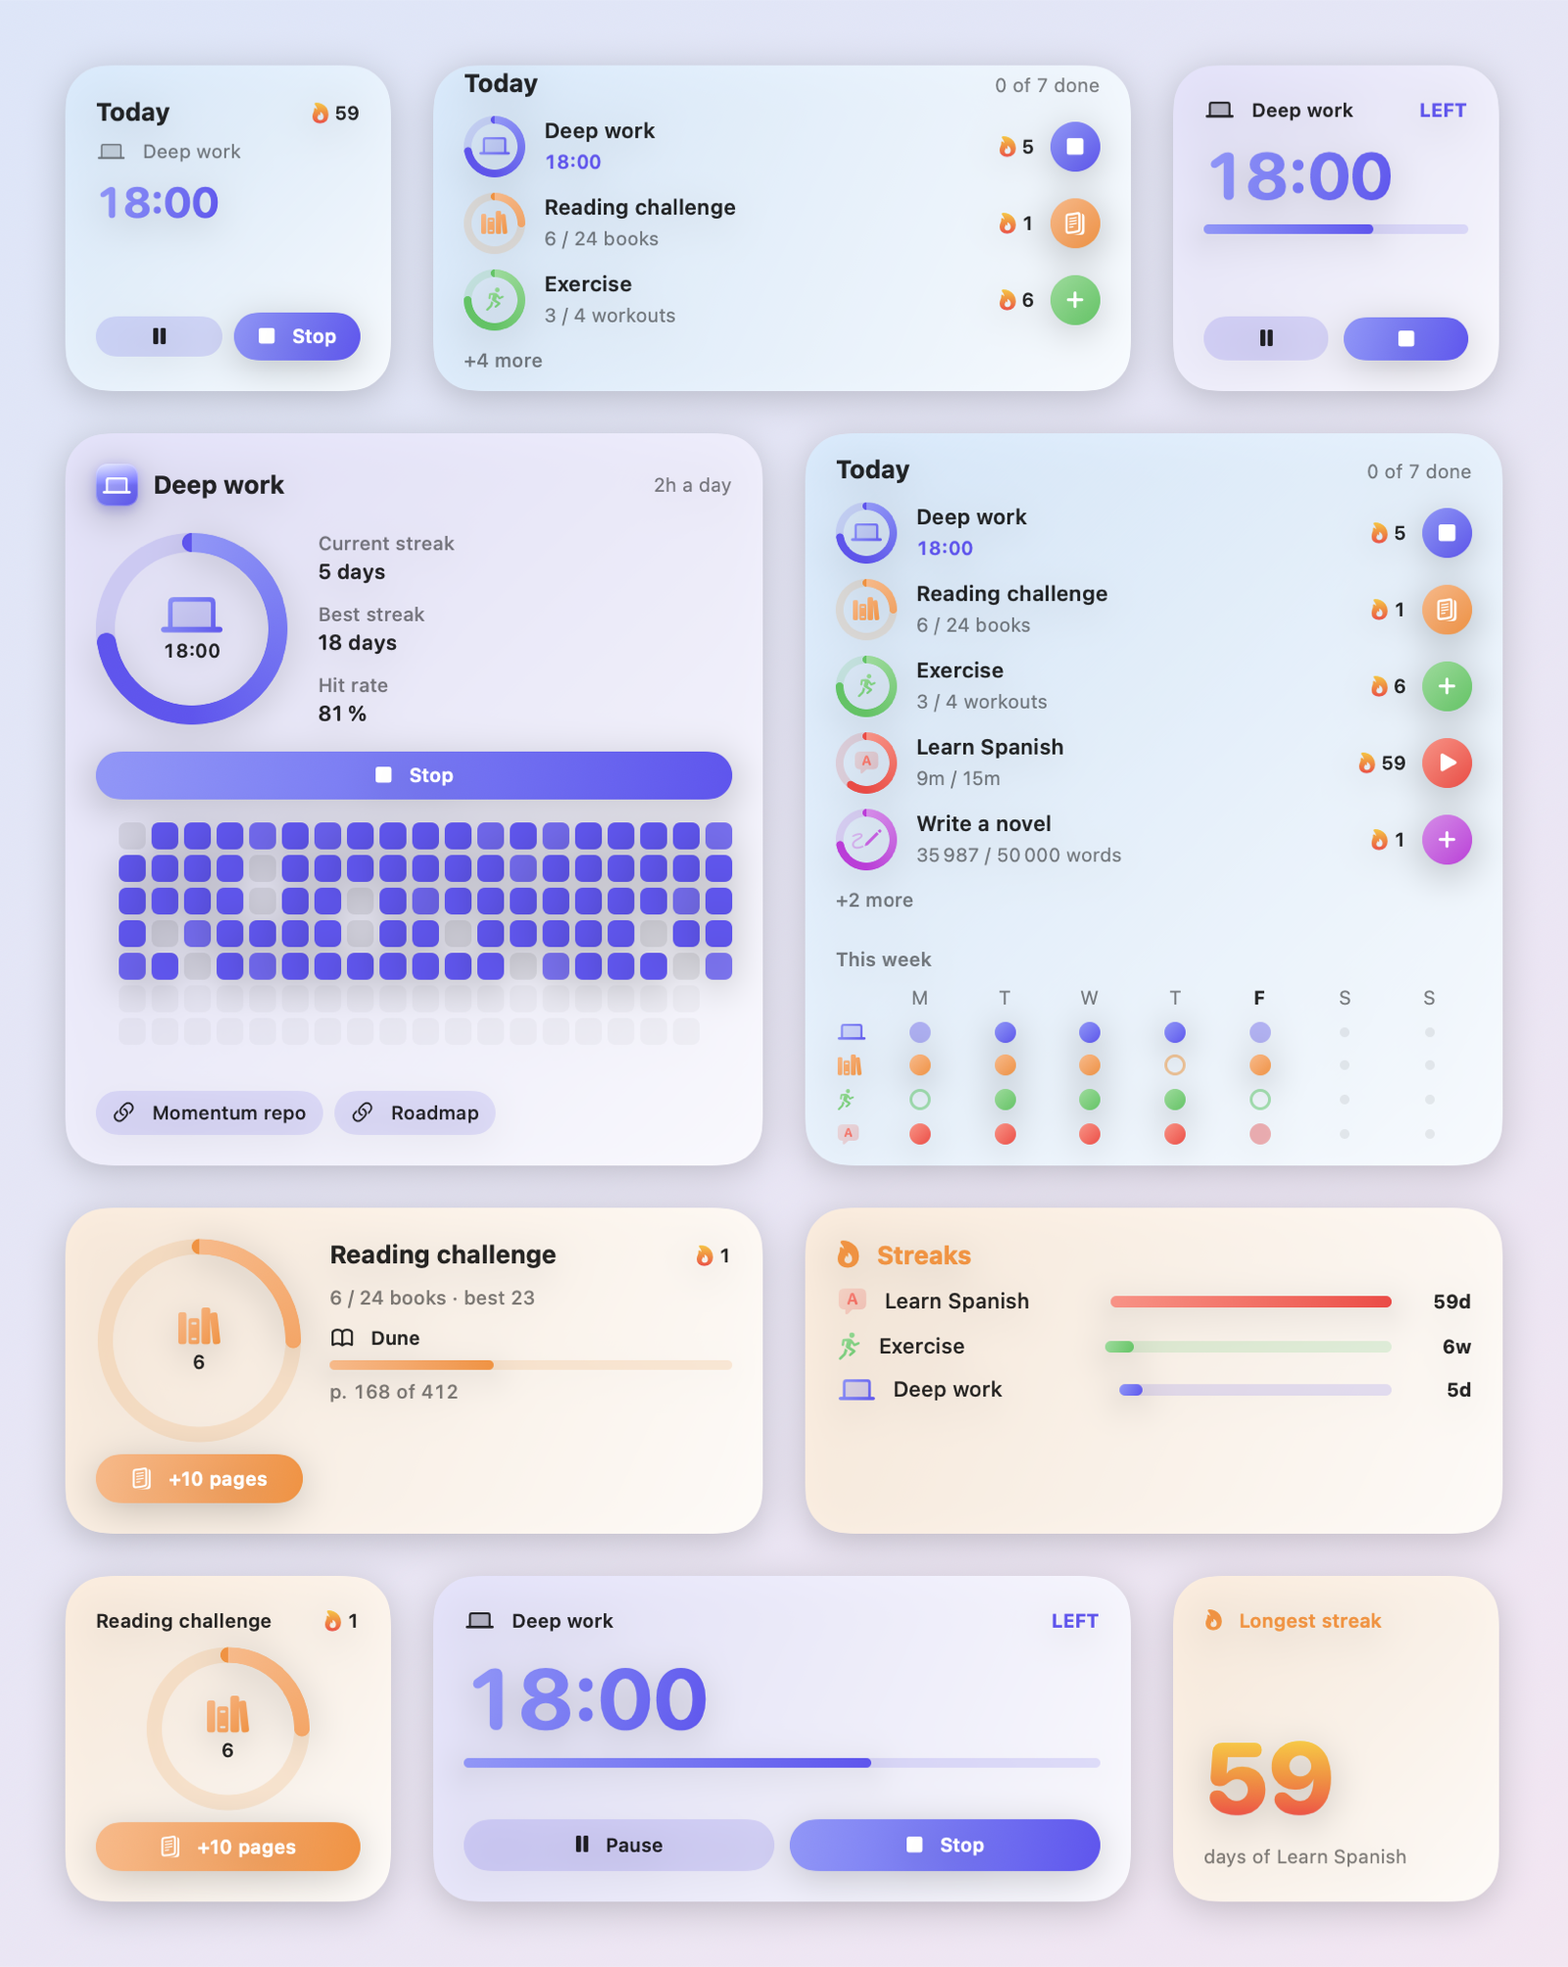
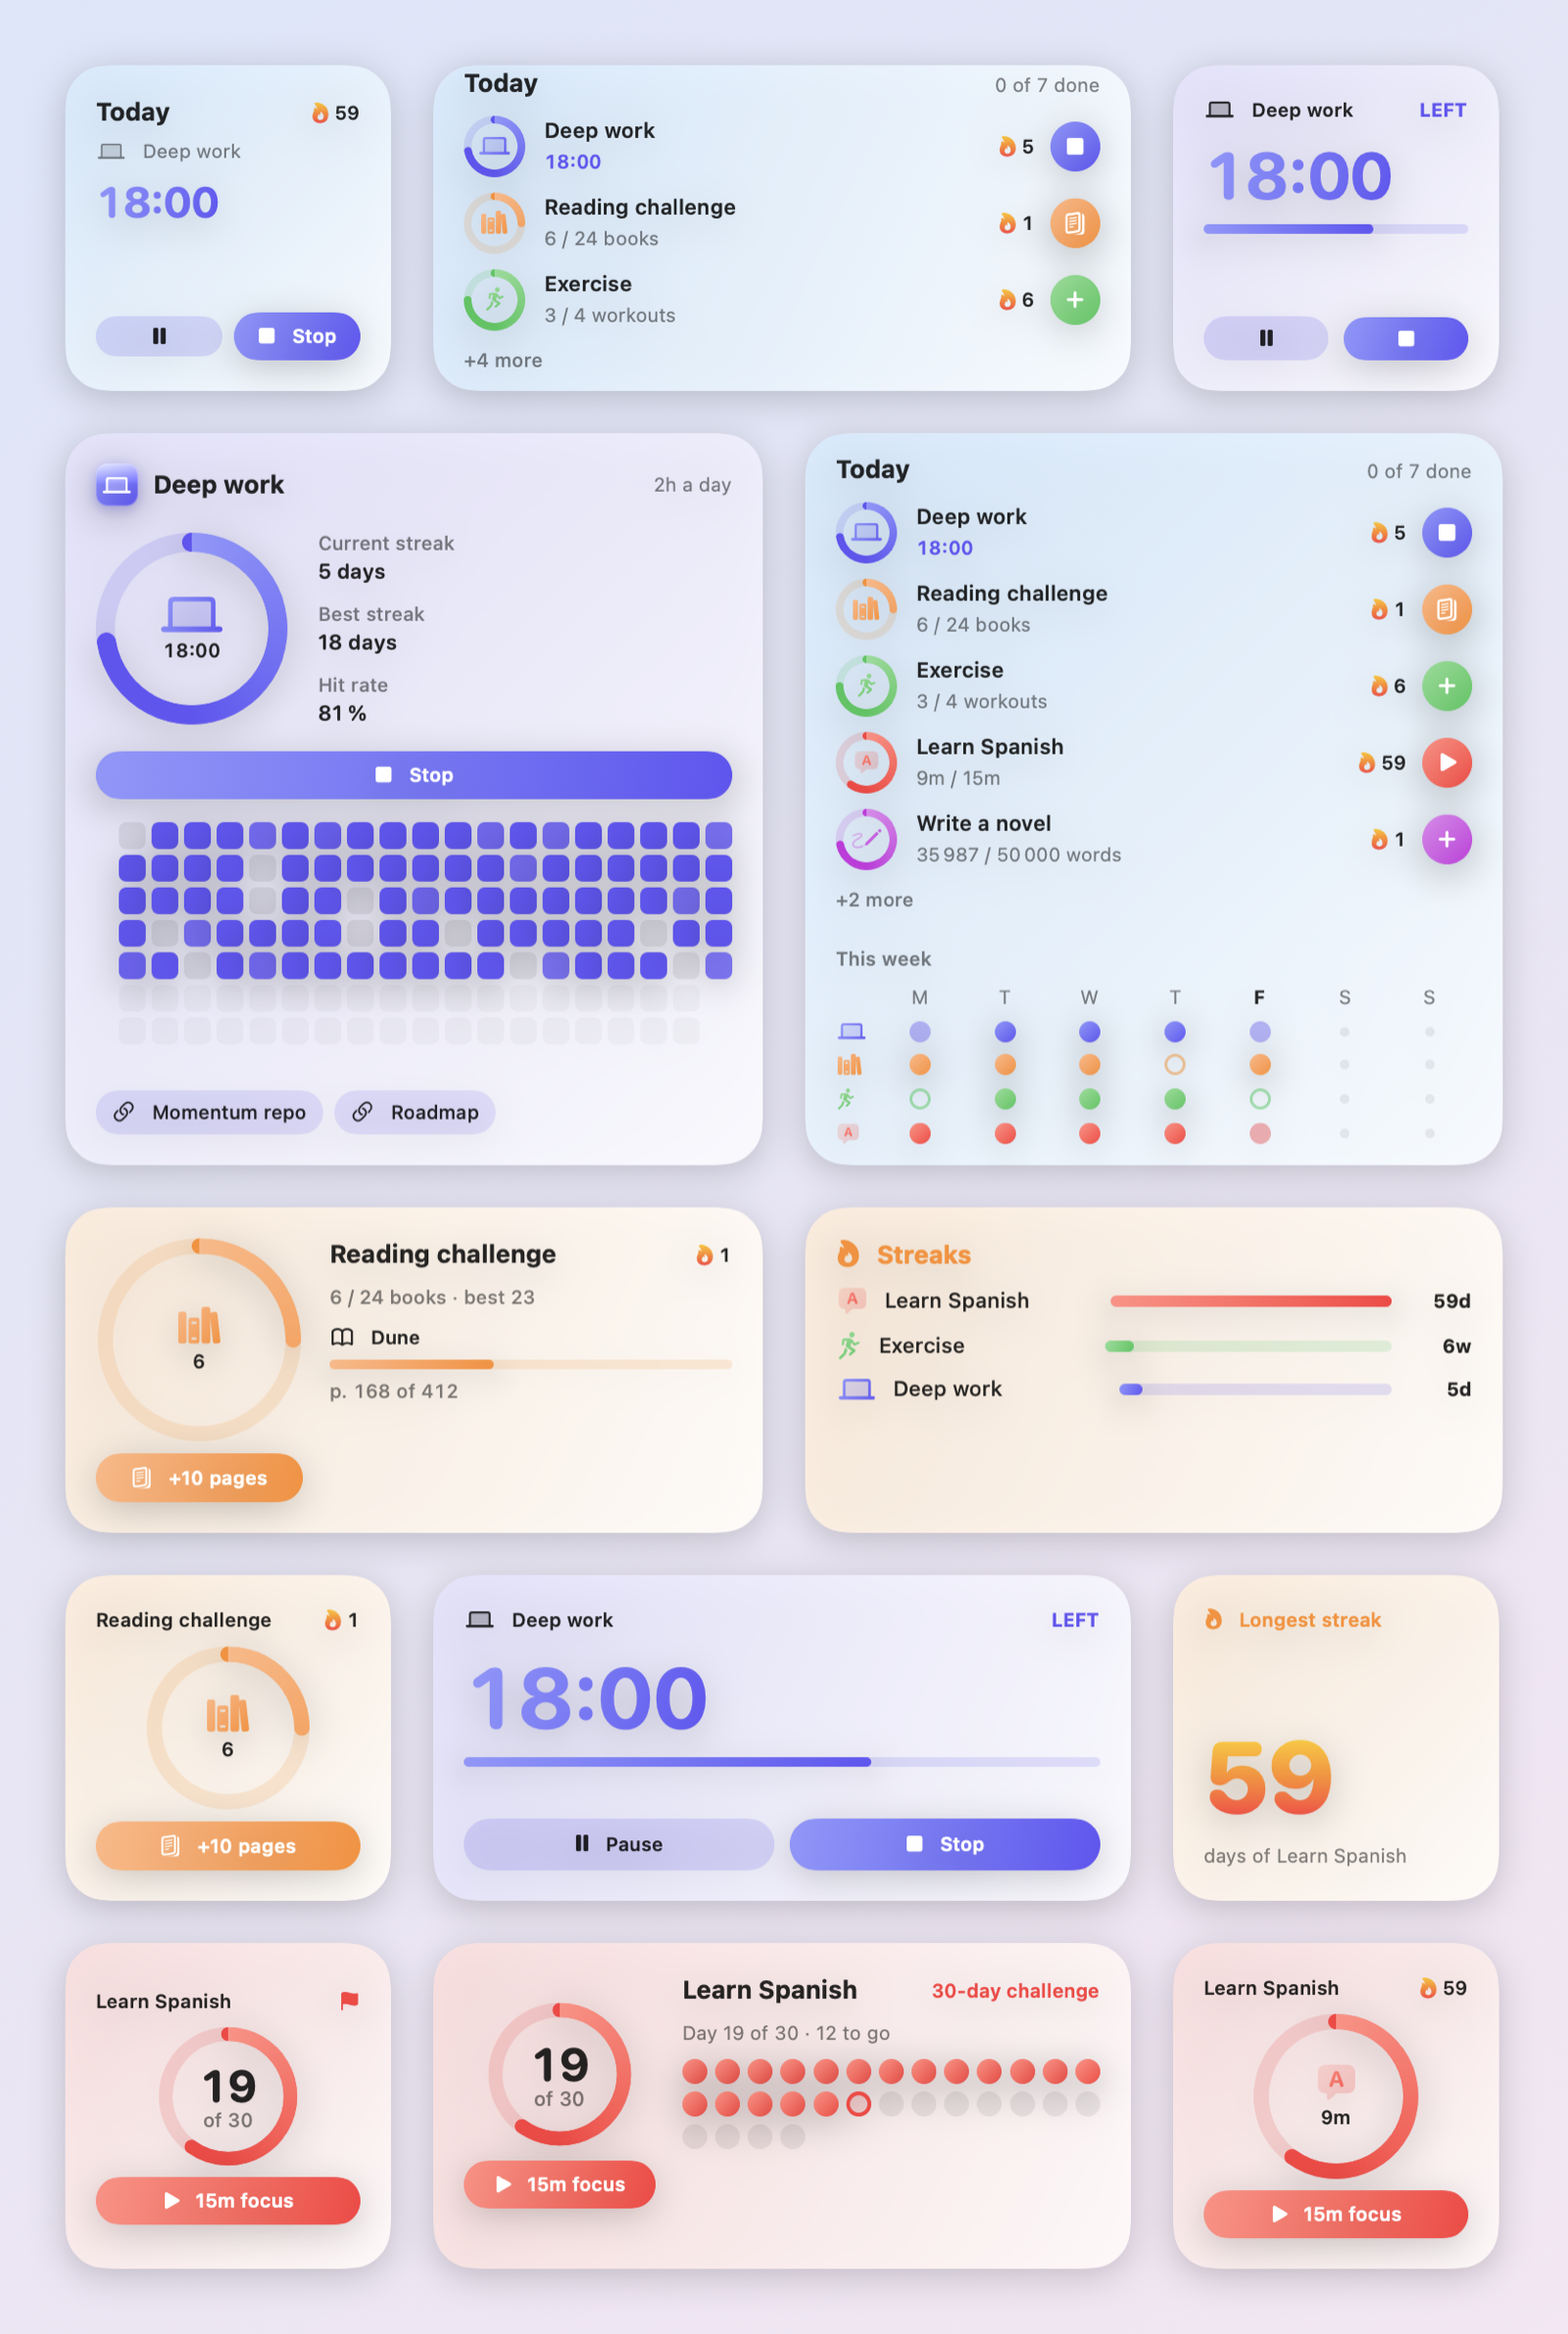
Refresh the screenshots, with the Challenge widget in the gallery

diff --git a/scripts/screenshots/WidgetHarness.swift b/scripts/screenshots/WidgetHarness.swift
@@ -15,6 +15,8 @@ MainActor.assumeIsolated {
     let books = data.goals.first { $0.kind == .books }?.id
     let entry = MomentumEntry(date: .now, engine: engine)
     let bookEntry = MomentumEntry(date: .now, engine: engine, goalID: books)
+    let spanish = data.goals.first { $0.challenge != nil }?.id
+    let challengeEntry = MomentumEntry(date: .now, engine: engine, goalID: spanish)
     let small = CGSize(width: 170, height: 170), medium = CGSize(width: 364, height: 170), large = CGSize(width: 364, height: 382)
 
     func tile<V: View>(_ view: V, _ size: CGSize, tint: Color) -> some View {
@@ -50,6 +52,11 @@ MainActor.assumeIsolated {
                 tile(GoalWidgetView(family: .systemSmall, entry: bookEntry), small, tint: .orange)
                 tile(FocusWidgetView(family: .systemMedium, entry: entry), medium, tint: .indigo)
                 tile(StreaksWidgetView(family: .systemSmall, entry: entry), small, tint: .orange)
+            }
+            HStack(alignment: .top, spacing: 22) {
+                tile(ChallengeWidgetView(family: .systemSmall, entry: challengeEntry), small, tint: .red)
+                tile(ChallengeWidgetView(family: .systemMedium, entry: challengeEntry), medium, tint: .red)
+                tile(GoalWidgetView(family: .systemSmall, entry: challengeEntry), small, tint: .red)
             }
         }
         .padding(34)
